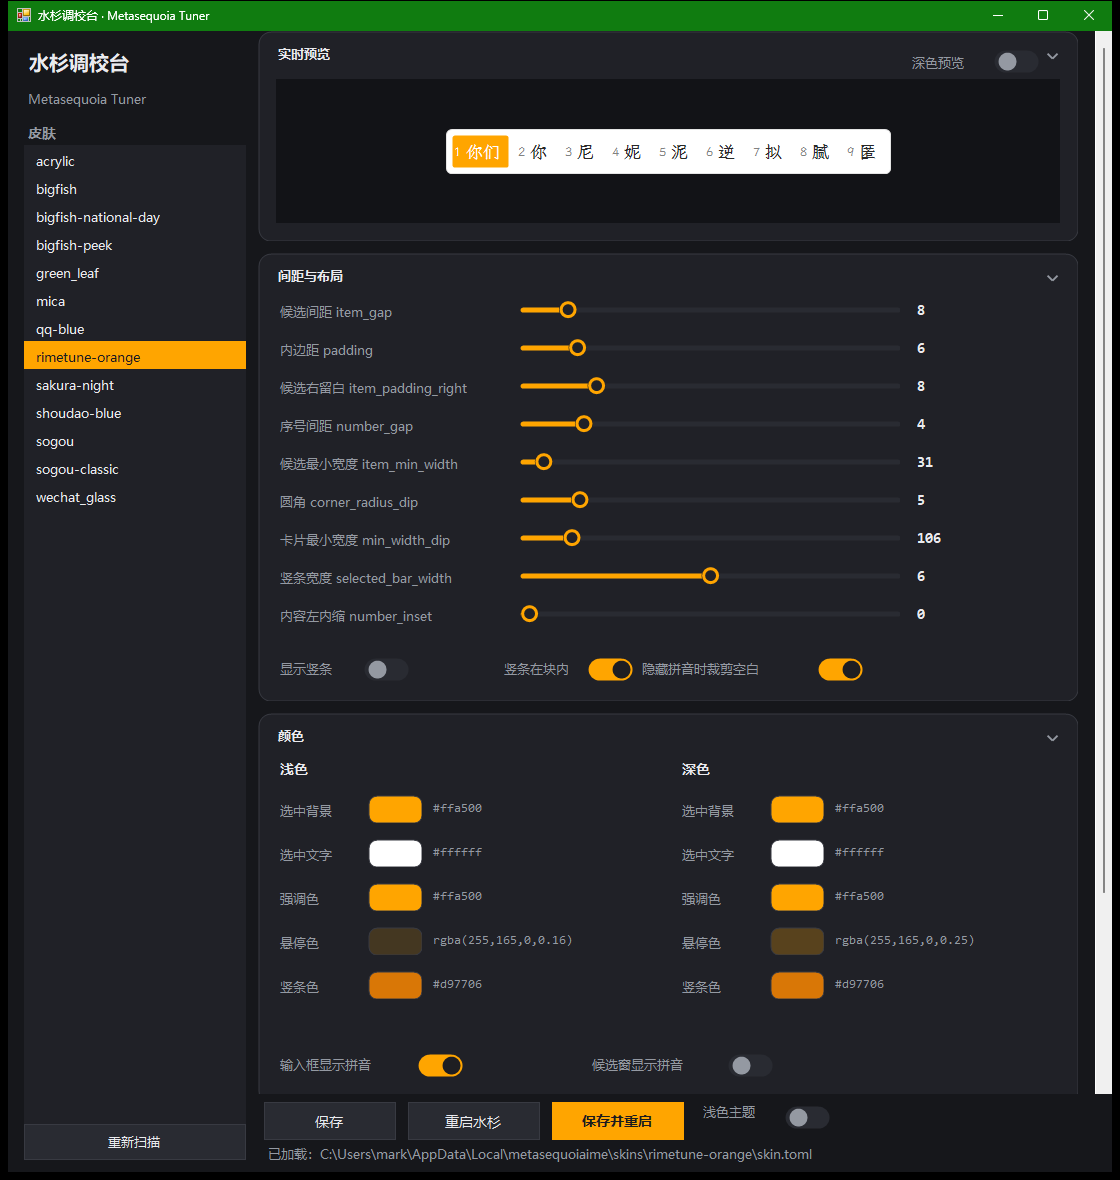
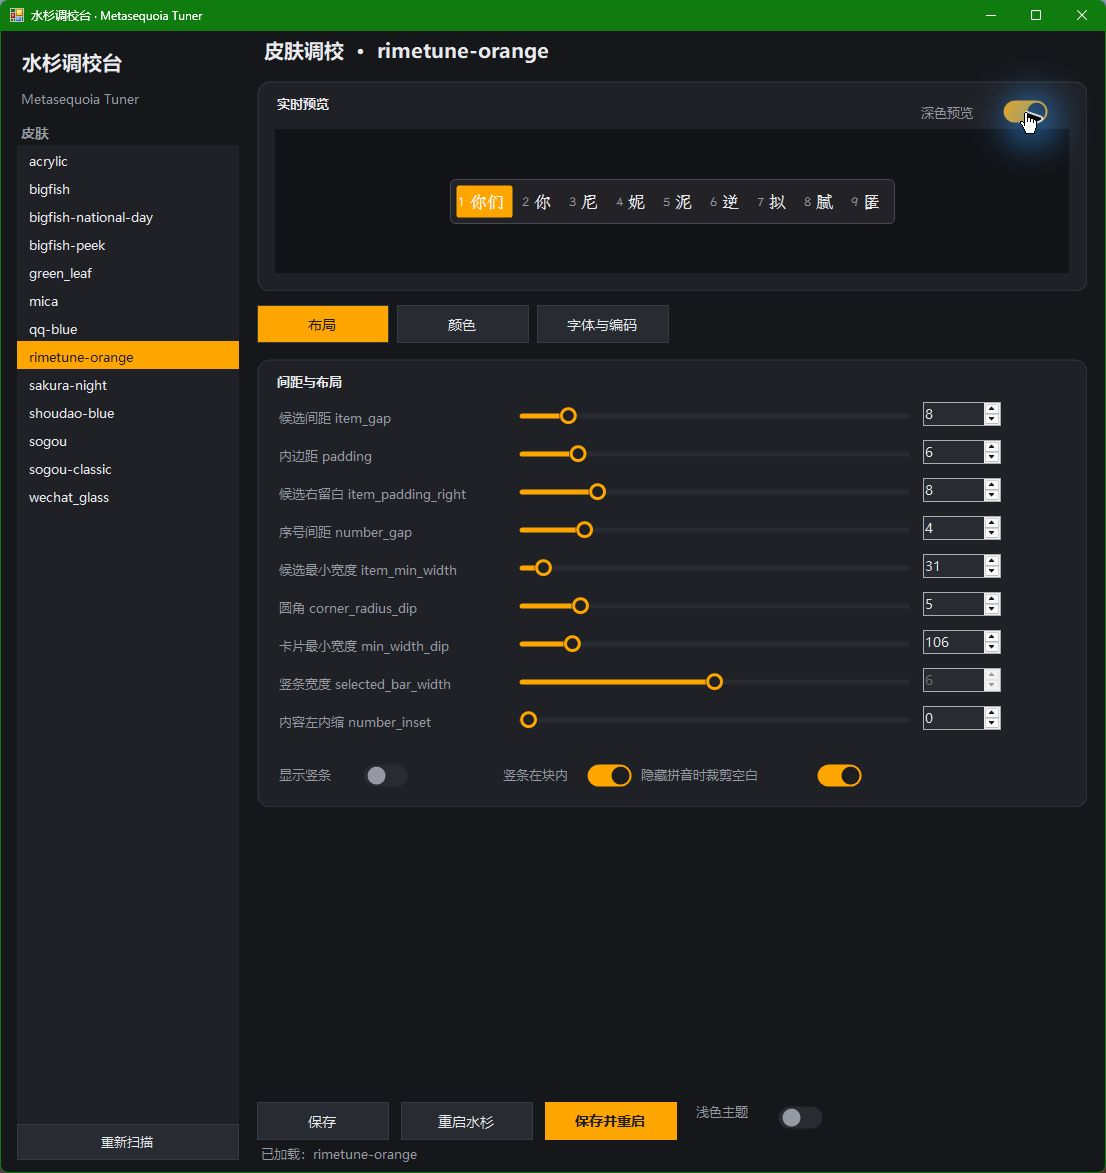
feat: 优化调校界面与操作反馈

diff --git a/src/Program.cs b/src/Program.cs
@@ -208,6 +208,7 @@ namespace MetasequoiaTuner
             using (var b = new SolidBrush(T.Text))
                 g.DrawString(Title ?? "", T.H2, b, 18, 14);
 
+            if (OnToggle == null) { base.OnPaint(e); return; }
             float cx = Width - 26, cy = 24;
             using (var pen = new Pen(T.Muted, 1.8f))
             {
@@ -523,6 +524,12 @@ namespace MetasequoiaTuner
         Panel side, scroll, right, bottom;
         List<Card> cards = new List<Card>();
         string currentSkin = "";
+        bool loading, dirty, restoringSelection;
+        int activeTab;
+        Panel tabs;
+        Button[] tabButtons;
+        Label skinHeading;
+        Card cardPrev, cardGeom, cardColor, cardFont;
 
         public MainForm()
         {
@@ -531,7 +538,8 @@ namespace MetasequoiaTuner
             T.Apply(dark);
 
             Text = "水杉调校台 · Metasequoia Tuner";
-            Width = 1120; Height = 1180;
+            Width = 1200; Height = 900;
+            MinimumSize = new Size(1000, 700);
             if (st.ContainsKey("window"))
             {
                 try
@@ -564,7 +572,7 @@ namespace MetasequoiaTuner
                 Font = T.Body
             };
             rescan.FlatAppearance.BorderColor = T.Line;
-            rescan.Click += (s, e) => LoadSkins(null);
+            rescan.Click += (s, e) => { if (ConfirmDiscard()) LoadSkins(currentSkin); };
 
             skinList.Dock = DockStyle.Fill;
             skinList.BackColor = T.Card;
@@ -583,7 +591,16 @@ namespace MetasequoiaTuner
                 using (var b = new SolidBrush(sel ? Color.FromArgb(28, 28, 30) : T.Text))
                     e.Graphics.DrawString(skinList.Items[e.Index].ToString(), skinList.Font, b, e.Bounds.X + 10, e.Bounds.Y + 6);
             };
-            skinList.SelectedIndexChanged += (s, e) => LoadSkin();
+            skinList.SelectedIndexChanged += (s, e) => {
+                if (restoringSelection || loading) return;
+                if (!ConfirmDiscard()) {
+                    restoringSelection = true;
+                    skinList.SelectedIndex = skinList.Items.IndexOf(currentSkin);
+                    restoringSelection = false;
+                    return;
+                }
+                LoadSkin();
+            };
 
             side.Controls.Add(skinList);
             side.Controls.Add(rescan);
@@ -593,19 +610,19 @@ namespace MetasequoiaTuner
 
             scroll = new Panel { Dock = DockStyle.Fill, AutoScroll = true, BackColor = T.Bg, Padding = new Padding(6, 10, 6, 6) };
 
-            var cardPrev = new Card { Title = "实时预览", Left = 0, Top = 0, Width = 820, ContentHeight = 210 };
+            cardPrev = new Card { Title = "实时预览", Left = 0, Top = 0, Width = 820, ContentHeight = 210 };
             cardPrev.Height = cardPrev.ContentHeight;
             preview.Left = 18; preview.Top = 48; preview.Width = 784; preview.Height = 144;
             preview.Anchor = AnchorStyles.Top | AnchorStyles.Left | AnchorStyles.Right;
             cardPrev.Controls.Add(preview);
-            tgDarkPreview = new Toggle { Left = 736, Top = 18, Width = 46 };
-            var lblDark = new Label { Text = "深色预览", Left = 650, Top = 22, Width = 80, ForeColor = T.Muted, Font = T.Body, BackColor = T.Card };
+            tgDarkPreview = new Toggle { Left = 736, Top = 18, Width = 46, Anchor = AnchorStyles.Top | AnchorStyles.Right };
+            var lblDark = new Label { Anchor = AnchorStyles.Top | AnchorStyles.Right, Text = "深色预览", Left = 650, Top = 22, Width = 80, ForeColor = T.Muted, Font = T.Body, BackColor = T.Card };
             tgDarkPreview.Checked = st.ContainsKey("preview_dark") && st["preview_dark"] == "1";
             tgDarkPreview.CheckedChanged += (s, e) => UpdatePreview();
             cardPrev.Controls.Add(tgDarkPreview);
             cardPrev.Controls.Add(lblDark);
 
-            var cardGeom = new Card { Title = "间距与布局", Left = 0, Top = 0, Width = 820, ContentHeight = 448 };
+            cardGeom = new Card { Title = "间距与布局", Left = 0, Top = 0, Width = 820, ContentHeight = 448 };
             cardGeom.Height = cardGeom.ContentHeight;
             int y = 46;
             sGap = AddSlider(cardGeom, "候选间距 item_gap", ref y, 0, 64, out vGap);
@@ -633,7 +650,7 @@ namespace MetasequoiaTuner
             cardGeom.Controls.Add(tgTrim);
             cardGeom.Controls.Add(lblTrim);
 
-            var cardColor = new Card { Title = "颜色", Left = 0, Top = 0, Width = 820, ContentHeight = 390 };
+            cardColor = new Card { Title = "颜色", Left = 0, Top = 0, Width = 820, ContentHeight = 390 };
             cardColor.Height = cardColor.ContentHeight;
             cardColor.Controls.Add(new Label { Text = "浅色", Left = 18, Top = 46, Width = 60, Font = T.H2, ForeColor = T.Text, BackColor = T.Card });
             cardColor.Controls.Add(new Label { Text = "深色", Left = 420, Top = 46, Width = 60, Font = T.H2, ForeColor = T.Text, BackColor = T.Card });
@@ -652,23 +669,25 @@ namespace MetasequoiaTuner
 
             tgCandPreedit = new Toggle { Left = 470, Top = 340, Width = 46, BackColor = T.Card };
             var lblCandP = new Label { Text = "候选窗显示拼音", Left = 330, Top = 342, Width = 132, ForeColor = T.Muted, BackColor = T.Card };
-            cardColor.Controls.Add(tgCandPreedit);
-            cardColor.Controls.Add(lblCandP);
+
             tgTsfPreedit = new Toggle { Left = 160, Top = 340, Width = 46, BackColor = T.Card };
             var lblTsfP = new Label { Text = "输入框显示拼音", Left = 18, Top = 342, Width = 132, ForeColor = T.Muted, BackColor = T.Card };
-            cardColor.Controls.Add(tgTsfPreedit);
-            cardColor.Controls.Add(lblTsfP);
 
-            var cardFont = new Card { Title = "字体", Left = 0, Top = 0, Width = 820, ContentHeight = 210 };
+
+            cardFont = new Card { Title = "字体", Left = 0, Top = 0, Width = 820, ContentHeight = 255 };
             cardFont.Height = cardFont.ContentHeight;
-            cardFont.Controls.Add(new Label { Text = "候选窗主字体 english_font", Left = 18, Top = 52, Width = 150, ForeColor = T.Muted, BackColor = T.Card });
-            cardFont.Controls.Add(new Label { Text = "中文回退字体 font", Left = 18, Top = 92, Width = 150, ForeColor = T.Muted, BackColor = T.Card });
+            cardFont.Controls.Add(new Label { Text = "候选窗主字体", Left = 18, Top = 52, Width = 180, ForeColor = T.Muted, BackColor = T.Card });
+            cardFont.Controls.Add(new Label { Text = "中文回退字体", Left = 18, Top = 92, Width = 180, ForeColor = T.Muted, BackColor = T.Card });
             cbFont = new ComboBox { Left = 200, Top = 48, Width = 300, DropDownStyle = ComboBoxStyle.DropDownList, FlatStyle = FlatStyle.Flat, BackColor = T.Card2, ForeColor = T.Text, Font = T.Body };
             cbEnglishFont = new ComboBox { Left = 200, Top = 88, Width = 300, DropDownStyle = ComboBoxStyle.DropDownList, FlatStyle = FlatStyle.Flat, BackColor = T.Card2, ForeColor = T.Text, Font = T.Body };
             cbFont.SelectedIndexChanged += (s, e) => UpdatePreview();
             cbEnglishFont.SelectedIndexChanged += (s, e) => UpdatePreview();
             cardFont.Controls.Add(cbFont);
             cardFont.Controls.Add(cbEnglishFont);
+            tgTsfPreedit.Top = 190; lblTsfP.Top = 192;
+            tgCandPreedit.Top = 190; lblCandP.Top = 192;
+            cardFont.Controls.Add(tgCandPreedit); cardFont.Controls.Add(lblCandP);
+            cardFont.Controls.Add(tgTsfPreedit); cardFont.Controls.Add(lblTsfP);
             int fy = 128;
             sFontSize = AddSlider(cardFont, "字号 font_size", ref fy, 12, 32, out vFontSize);
             cardFont.Controls.Add(new Label { Text = "预览使用所选字体与字号", Left = 500, Top = 52, Width = 300, ForeColor = T.Muted, BackColor = T.Card });
@@ -678,6 +697,18 @@ namespace MetasequoiaTuner
             cards.Add(cardColor);
             cards.Add(cardFont);
             foreach (var c in cards) scroll.Controls.Add(c);
+            skinHeading = new Label { Text = "皮肤调校", Font = T.H1, ForeColor = T.Text, Left = 8, Top = 6, Height = 38, Width = 700 };
+            scroll.Controls.Add(skinHeading);
+            tabs = new Panel { Height = 44, BackColor = T.Bg };
+            tabButtons = new[] { MakeButton("布局", false), MakeButton("颜色", false), MakeButton("字体与编码", false) };
+            for (int i = 0; i < tabButtons.Length; i++) {
+                int index = i;
+                tabButtons[i].Left = i * 140; tabButtons[i].Top = 2;
+                tabButtons[i].Click += (sender, args) => SelectTab(index);
+                tabs.Controls.Add(tabButtons[i]);
+            }
+            scroll.Controls.Add(tabs);
+            scroll.Resize += (sender, args) => Relayout();
 
             bottom = new Panel { Dock = DockStyle.Bottom, Height = 78, BackColor = T.Bg, Padding = new Padding(6, 8, 6, 6) };
             var btnRow = new FlowLayoutPanel { Dock = DockStyle.Top, Height = 44, BackColor = T.Bg };
@@ -718,34 +749,67 @@ namespace MetasequoiaTuner
             foreach (var sw in new[] { swLightSel, swLightSelText, swLightAccent, swLightHover, swLightBar, swDarkSel, swDarkSelText, swDarkAccent, swDarkHover, swDarkBar })
                 sw.Picked += (s, e) => { UpdateColorLabels(); UpdatePreview(); };
 
-            foreach (var c in cards) c.OnToggle = () => ToggleCard(c);
-            if (st.ContainsKey("collapsed"))
-            {
-                var set = st["collapsed"].Split(new[] { ',' }, StringSplitOptions.RemoveEmptyEntries);
-                for (int i = 0; i < cards.Count; i++)
-                    if (set.Contains(i.ToString())) cards[i].SetExpanded(false);
-            }
-            Relayout();
+            foreach (var sld in new[] { sGap, sPad, sPadRight, sNumberGap, sItemMinWidth, sRadius, sMinWidth, sBarWidth, sInset, sFontSize })
+                sld.ValueChanged += (sender, args) => MarkDirty();
+            foreach (var toggle in new[] { tgBar, tgBarInside, tgTrim, tgCandPreedit, tgTsfPreedit })
+                toggle.CheckedChanged += (sender, args) => MarkDirty();
+            foreach (var sw in new[] { swLightSel, swLightSelText, swLightAccent, swLightHover, swLightBar, swDarkSel, swDarkSelText, swDarkAccent, swDarkHover, swDarkBar })
+                sw.Picked += (sender, args) => MarkDirty();
+            cbFont.SelectedIndexChanged += (sender, args) => MarkDirty();
+            cbEnglishFont.SelectedIndexChanged += (sender, args) => MarkDirty();
+            tgBar.CheckedChanged += (sender, args) => UpdateBarControls();
+            SelectTab(0);
             Shown += (s, e) => { scroll.AutoScrollPosition = new Point(0, 0); };
-            FormClosing += (s, e) => SaveSettings();
+            FormClosing += (s, e) => { if (!ConfirmDiscard()) e.Cancel = true; else SaveSettings(); };
 
             LoadSkins(st.ContainsKey("skin") ? st["skin"] : null);
         }
 
-        void ToggleCard(Card c)
+        void MarkDirty()
         {
-            c.SetExpanded(!c.Expanded);
+            if (loading || doc == null) return;
+            dirty = true;
+            status.Text = "●  有未保存的更改";
+        }
+
+        bool ConfirmDiscard()
+        {
+            if (!dirty) return true;
+            var result = MessageBox.Show("当前修改尚未保存。是否先保存？", "未保存的更改",
+                MessageBoxButtons.YesNoCancel, MessageBoxIcon.Question);
+            if (result == DialogResult.Cancel) return false;
+            if (result == DialogResult.Yes) { SaveDoc(false); return !dirty; }
+            dirty = false;
+            return true;
+        }
+
+        void UpdateBarControls()
+        {
+            tgBarInside.Enabled = tgBar.Checked;
+            sBarWidth.Enabled = tgBar.Checked;
+        }
+
+        void SelectTab(int index)
+        {
+            activeTab = index;
+            for (int i = 0; i < tabButtons.Length; i++) {
+                tabButtons[i].Tag = i == index ? "primary" : null;
+                tabButtons[i].BackColor = i == index ? T.Accent : T.Card2;
+                tabButtons[i].ForeColor = i == index ? Color.FromArgb(28, 28, 30) : T.Text;
+            }
             Relayout();
-            SaveSettings();
         }
 
         void Relayout()
         {
-            int top = 0;
-            foreach (var c in cards)
-            {
-                c.Top = top;
-                top += c.Height + 12;
+            if (tabs == null || cardPrev == null) return;
+            int width = Math.Max(820, scroll.ClientSize.Width - 24);
+            cardPrev.SetBounds(6, 50, width, 210);
+            tabs.SetBounds(6, 272, width, 44);
+            Card[] editors = { cardGeom, cardColor, cardFont };
+            for (int i = 0; i < editors.Length; i++) {
+                editors[i].Visible = i == activeTab;
+                editors[i].SetBounds(6, 328, width, editors[i].ContentHeight);
             }
         }
 
@@ -767,6 +831,7 @@ namespace MetasequoiaTuner
             T.Apply(!light);
             Recolor(this);
             Invalidate(true);
+            BeginInvoke((Action)(() => UpdatePreview()));
             SaveSettings();
         }
 
@@ -778,7 +843,7 @@ namespace MetasequoiaTuner
                 else if (c is PreviewPanel) { }
                 else if (c is FlatSlider || c is Toggle || c is Swatch) c.BackColor = T.Card;
                 else if (c is ListBox) { c.BackColor = T.Card; c.ForeColor = T.Text; }
-                else if (c is ComboBox) { c.BackColor = T.Card2; c.ForeColor = T.Text; }
+                else if (c is ComboBox || c is NumericUpDown) { c.BackColor = T.Card2; c.ForeColor = T.Text; }
                 else if (c is Button)
                 {
                     var b = (Button)c;
@@ -830,7 +895,13 @@ namespace MetasequoiaTuner
                 Font = new Font("Consolas", 11F, FontStyle.Bold),
                 BackColor = T.Card
             };
-            s.ValueChanged += (a, b) => v.Text = s.Value.ToString();
+            v.Visible = false;
+            var number = new NumericUpDown { Left = 656, Top = y - 3, Width = 78, Minimum = min, Maximum = max, Value = min, BackColor = T.Card2, ForeColor = T.Text, Font = T.Body, Anchor = AnchorStyles.Top | AnchorStyles.Right };
+            s.Anchor = AnchorStyles.Top | AnchorStyles.Left | AnchorStyles.Right;
+            s.ValueChanged += (a, b) => { v.Text = s.Value.ToString(); number.Value = s.Value; };
+            number.ValueChanged += (a, b) => s.Value = (int)number.Value;
+            s.EnabledChanged += (a, b) => number.Enabled = s.Enabled;
+            parent.Controls.Add(number);
             parent.Controls.Add(l);
             parent.Controls.Add(s);
             parent.Controls.Add(v);
@@ -853,9 +924,10 @@ namespace MetasequoiaTuner
 
         void LoadSkins(string prefer)
         {
+            loading = true;
             skinList.Items.Clear();
             string root = SkinRoot();
-            if (!Directory.Exists(root)) { status.Text = "找不到皮肤目录：" + root; return; }
+            if (!Directory.Exists(root)) { status.Text = "找不到皮肤目录：" + root; loading = false; return; }
             foreach (var dir in Directory.GetDirectories(root).OrderBy(d => d))
                 if (File.Exists(Path.Combine(dir, "skin.toml")))
                     skinList.Items.Add(Path.GetFileName(dir));
@@ -863,6 +935,8 @@ namespace MetasequoiaTuner
             int idx = prefer != null ? skinList.Items.IndexOf(prefer) : -1;
             if (idx < 0) idx = skinList.Items.IndexOf("rimetune-orange");
             skinList.SelectedIndex = idx >= 0 ? idx : (skinList.Items.Count > 0 ? 0 : -1);
+            loading = false;
+            if (skinList.SelectedIndex >= 0) LoadSkin();
         }
 
         int Clamp(string s, int def, int min, int max)
@@ -882,7 +956,9 @@ namespace MetasequoiaTuner
         void LoadSkin()
         {
             if (skinList.SelectedItem == null) return;
+            loading = true;
             currentSkin = skinList.SelectedItem.ToString();
+            skinHeading.Text = "皮肤调校  ·  " + currentSkin;
             string path = Path.Combine(SkinRoot(), currentSkin, "skin.toml");
             doc = TomlDoc.Load(path);
 
@@ -914,7 +990,10 @@ namespace MetasequoiaTuner
             LoadConfigOptions();
             UpdateColorLabels();
             UpdatePreview();
-            status.Text = "已加载：" + path;
+            UpdateBarControls();
+            loading = false;
+            dirty = false;
+            status.Text = "已加载：" + currentSkin;
         }
 
         void SetSwatch(Swatch s, string text, Color fallback)
@@ -1001,12 +1080,12 @@ namespace MetasequoiaTuner
             catch { }
         }
 
-        void SaveConfigOptions()
+        bool SaveConfigOptions()
         {
             try
             {
                 string cfg = ConfigPath();
-                if (!File.Exists(cfg)) return;
+                if (!File.Exists(cfg)) throw new FileNotFoundException("找不到全局配置文件", cfg);
                 var cd = TomlDoc.Load(cfg);
                 cd.Set("appearance", "candidate_window_preedit_style", tgCandPreedit.Checked ? "\"pinyin\"" : "\"empty\"");
                 cd.Set("appearance", "tsf_preedit_style", tgTsfPreedit.Checked ? "\"raw\"" : "\"empty\"");
@@ -1014,8 +1093,9 @@ namespace MetasequoiaTuner
                 if (cbEnglishFont.SelectedItem != null) cd.Set("appearance", "font", "\"" + cbEnglishFont.SelectedItem.ToString() + "\"");
                 cd.Set("appearance", "font_size", sFontSize.Value.ToString());
                 cd.Save();
+                return true;
             }
-            catch (Exception ex) { status.Text = "写 config.toml 失败：" + ex.Message; }
+            catch (Exception ex) { status.Text = "写 config.toml 失败：" + ex.Message; return false; }
         }
 
         void SaveDoc(bool restart)
@@ -1062,7 +1142,9 @@ namespace MetasequoiaTuner
                 status.Text = "保存失败：" + ex.Message;
                 return;
             }
-            SaveConfigOptions();
+            if (!SaveConfigOptions()) { dirty = true; return; }
+            dirty = false;
+            status.Text = "已保存：" + currentSkin;
             SaveSettings();
             if (restart) RestartIme();
         }

diff --git a/README.md b/README.md
@@ -35,8 +35,9 @@
 
 - **实时预览**：9 个候选项的模拟候选窗，改任何参数立刻重绘
 - **深色 / 浅色主题**：工具自身两套配色，可切换
-- **卡片折叠**：标题栏点击折叠/展开
-- **记住上次状态**：主题、折叠状态、所选皮肤、窗口大小
+- **分类调校**：布局、颜色、字体与编码分开显示，参数可通过滑块或数值框调整
+- **未保存提示**：切换皮肤或关闭窗口前，可选择保存、放弃或取消
+- **记住上次状态**：主题、预览模式、所选皮肤、窗口大小
 - **一键重启**：`保存并重启` 会提权结束 `MetasequoiaImeServer` 并重新拉起，改完立刻生效
 
 ![浅色主题](screenshots/light.png)
